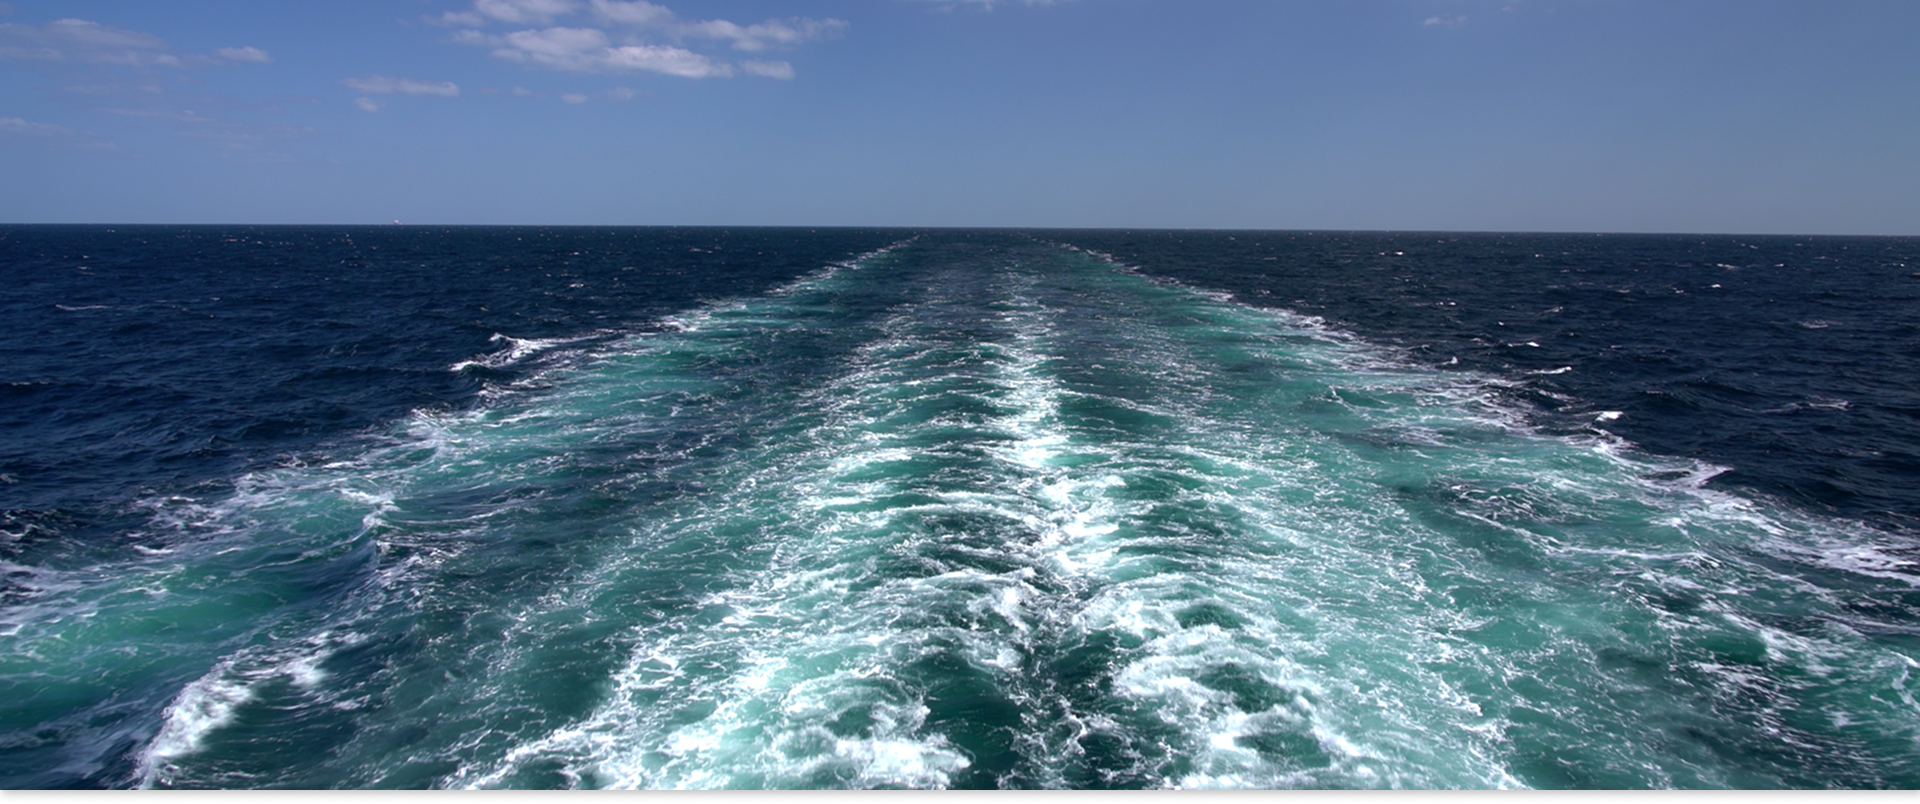
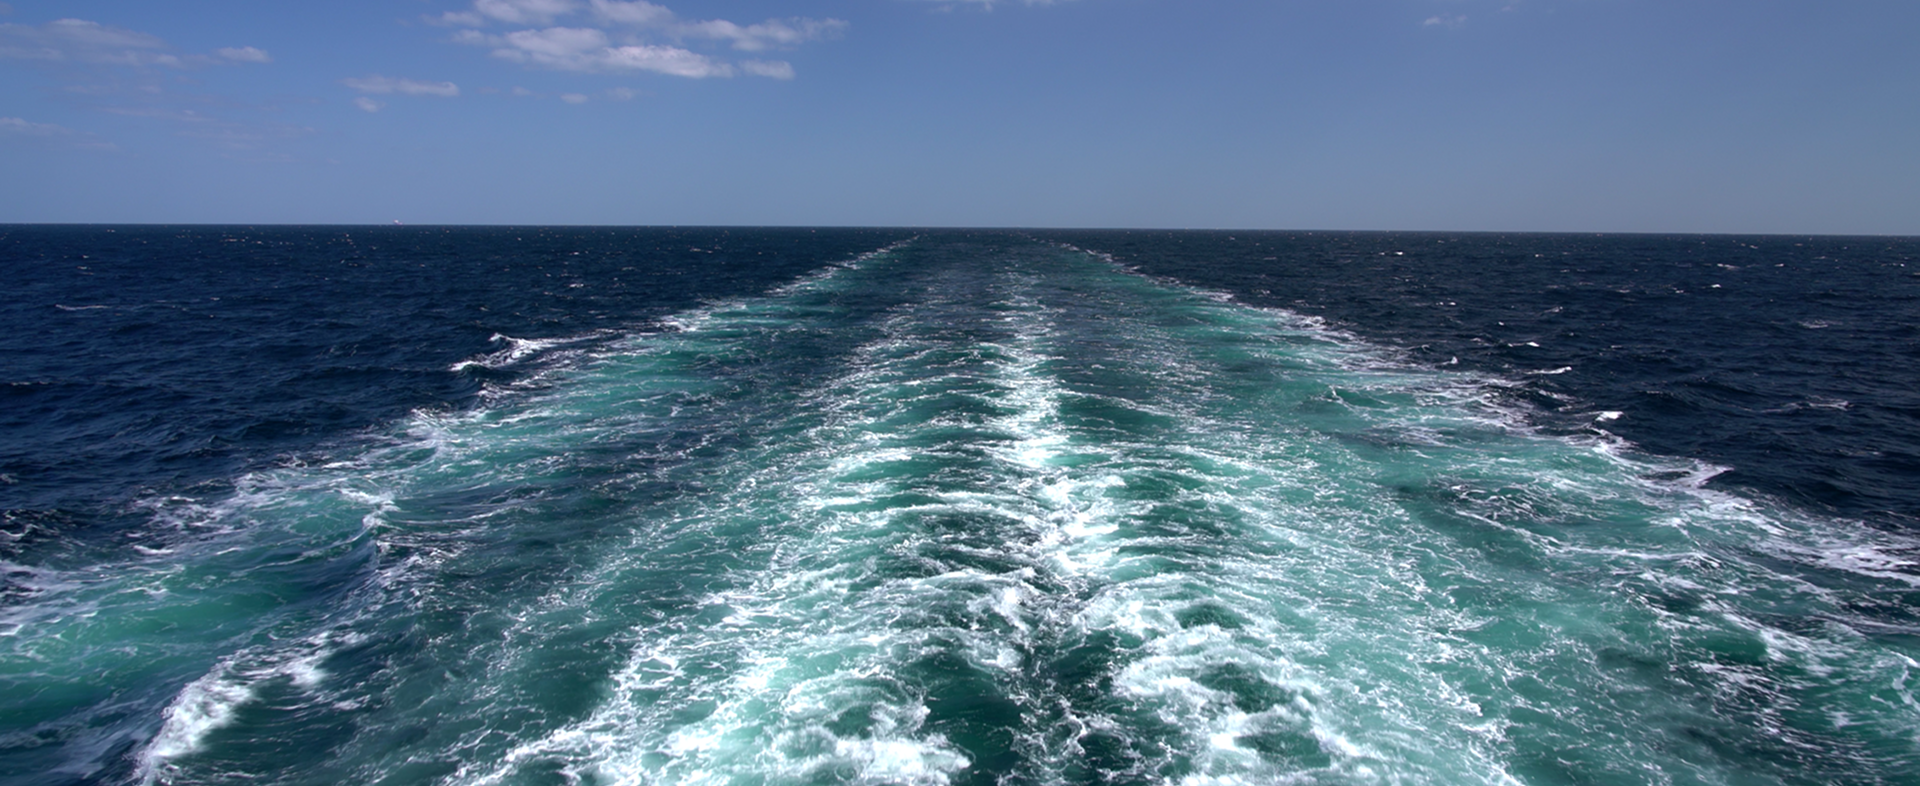
Client changes done

diff --git a/sections/home/Otherservices.jsx b/sections/home/Otherservices.jsx
@@ -3,7 +3,7 @@ import Bulletpoints from '../../components/Bulletpoints'
 
 export default function Otherservices() {
   return (
-    <div className='items-center flex bg-[#1E7179] min-h-[100vh] bg-[url(/servicesbg.jpeg)] bg-no-repeat bg-cover ' id='services'>
+    <div className='items-center flex bg-[#1E7179] min-h-[100vh] bg-[url(/servicesbg.jpeg)] bg-center py-10 lg:py-0 bg-no-repeat bg-cover ' id='services'>
         <div className='max-w-[1400px] mx-auto w-full px-3 '>
             <div className='flex flex-col lg:flex-row gap-10 lg:gap-0'>
                 <div className='w-full lg:w-1/2 text-white flex flex-col gap-6'>
@@ -14,10 +14,8 @@ export default function Otherservices() {
                     <Bulletpoints title='De Bunkering & Fuel Disposal Services' description='handling fuel offloading and disposal as per regulations' color='white'/>
                     <Bulletpoints title='Bunker Trader Representation' description='Acting as a local partner for overseas traders without regional offices.' color='white'/>
                 </div>
-                <div className='w-full lg:w-1/2 flex items-start flex-col md:flex-row lg:justify-end gap-5 relative'>
-                 <img src='/otherservices1.jpg' alt='services' className='rounded-lg w-full lg:w-auto h-auto md:h-full'/>
-                 <img src='/otherservices2.jpg' alt='services' className='rounded-lg w-full lg:w-auto h-auto md:h-full'/>
-
+                <div className='w-full lg:w-1/2 flex items-start flex-col md:flex-row lg:justify-end py-2 gap-5 relative'>
+                 <img src='/otherservices.png' alt='services' className='rounded-lg w-full lg:w-auto h-auto md:h-full'/>
                 </div>
             </div>
         </div>

diff --git a/components/Footer.jsx b/components/Footer.jsx
@@ -14,13 +14,13 @@ export default function Footer() {
         </div>
         </div>
       </div>
-      <div className='bg-[#05363B]'>
+      <div className='bg-[#1E7179]'>
         <div className='max-w-[1400px] mx-auto w-full h-full px-3 py-20 flex flex-col gap-10 lg:gap-0 lg:flex-row xl:justify-between sm:justify-around'>
           <div>
             <img src='/whitelogo.png' alt='white-logo' />
             <p className='text-white w-full lg:max-w-[300px] mt-7 text-xs'>Aqualis Marine leverages an agile and strategic approach to deliver transparent, customized maritime solutions, enhancing efficiency and value for our clients</p>
           </div>
-          <div className='flex flex-col lg:flex-row gap-10 lg:gap-32'>
+          <div className='flex flex-col lg:flex-row gap-10 lg:gap-52'>
             <div className=''>
               <p className='font-bold text-white text-sm'>PAGES</p>
               <div className='lg:mt-10 mt-2 text-xs text-white flex flex-col gap-2'>
@@ -51,7 +51,7 @@ export default function Footer() {
           </div>
         </div>
       </div>
-      <div className='bg-[#05363B] relative'>
+      <div className='bg-[#1E7179] relative'>
         <div className='max-w-[1400px] mx-auto w-full h-full px-3 py-10 text-xs text-white'>
           <p >CopyRights : Aqualis Marine@2025</p>
           <Link href='https://api.whatsapp.com/send/?phone=6597399507&text=Hello+%2C+i+am+interested&type=phone_number&app_absent=0' className='fixed bottom-6 right-6'>

diff --git a/sections/home/Blogsectionhome.jsx b/sections/home/Blogsectionhome.jsx
@@ -7,14 +7,14 @@ import Link from 'next/link';
 export default async function Blogsectionhome() {
   const rows = await getCachedBlogs();
   return (
-    <div className='py-20' id='blog'>
+    <div className='py-16' id='blog'>
     <div className='max-w-[1400px] mx-auto w-full px-3'>
       <p className='text-4xl font-bold text-[#05363B]'>Blogs</p>
-      <div className='flex mt-10 flex-col lg:flex-row gap-10'>
+      <div className='flex mt-10 flex-col lg:flex-row gap-7'>
             <div className='lg:w-1/2 w-full h-full'>
             <Link href={`/blogs/${rows[0].id}`} passHref><Homemainblogcard image={rows[0].image_url} title={rows[0].title} description={rows[0].shortdesc}/></Link>
             </div>
-            <div className='lg:w-1/2 w-full gap-10 flex flex-col justify-between'>
+            <div className='lg:w-1/2 w-full gap-10 lg:gap-0 flex lg:flex-col flex-col md:flex-row justify-between'>
                 <Link href={`/blogs/${rows[2].id}`} passHref><Homeblogcard title={rows[2].title} imge={rows[2].image_url} description={rows[2].shortdesc}/></Link>
                 
                 <Link href={`/blogs/${rows[1].id}`} passHref><Homeblogcard title={rows[1].title} imge={rows[1].image_url} description={rows[1].shortdesc}/></Link>

diff --git a/sections/home/Contact.jsx b/sections/home/Contact.jsx
@@ -6,14 +6,14 @@ export default function Contact() {
         console.log(hi)
     }
   return (
-    <div className='py-20 bg-[#F5F5F5] bg-[url(/contactcircle.png)] bg-no-repeat bg-right-bottom' id='contact'>
+    <div className='py-10 bg-[#F5F5F5] bg-[url(/contactcircle.png)] bg-no-repeat bg-right-bottom' id='contact'>
         <div className='max-w-[1400px] mx-auto w-full px-3'>
             <p className='text-3xl text-[#05363B] font-semibold'>Contact Us.</p>
             <div className='mt-10 lg:flex-row flex-col flex justify-between gap-10'>
                 <div className='lg:w-1/2 w-full h-auto'>
                     <img src='/contact.jpg' alt='contact' className='w-full h-full lg:h-[27rem]' />
                 </div>
-                <div className=''>
+                <div className='lg:w-1/2 lg:flex justify-end block w-full h-auto'>
                     <form className='flex flex-col gap-5 items-start mt-10 lg:mt-0'>
                         <div className='flex lg:flex-row flex-col gap-5 w-full'>
                             <Inputfield field='name' placeholder='Your Name' type='text'/>

diff --git a/components/Homemainblogcard.jsx b/components/Homemainblogcard.jsx
@@ -2,7 +2,7 @@ import React from 'react'
 
 export default function Homemainblogcard({title, description, image}) {
   return (
-    <div className={`bg-cover bg-center min-h-[500px] h-full rounded-lg px-5 flex flex-col justify-end py-10 gap-3`}  style={{ backgroundImage: `url(${image})` }}>
+    <div className={`bg-cover bg-center min-h-[500px] h-full rounded-lg px-8 flex flex-col justify-end py-10 gap-3`}  style={{ backgroundImage: `url(${image})` }}>
         <p className='text-white text-lg font-medium'>{title}</p>
         <p className='text-white text-sm lg:w-2/3 w-full'>{description}</p>
     </div>

diff --git a/sections/home/Bunkering.jsx b/sections/home/Bunkering.jsx
@@ -2,8 +2,8 @@ import React from 'react'
 
 export default function Bunkering() {
   return (
-    <div className='relative ' id='bunkering'>
-    <div className='py-20 mt-10 bg-[#1E7179] bg-[url(/Bunkeringbg.png)] bg-no-repeat bg-cover '>
+    <div className='relative mt-10' id='bunkering'>
+    <div className='py-10 bg-[#1E7179] bg-[url(/Bunkeringbg.png)] bg-no-repeat bg-cover '>
         <div className='max-w-[1400px] mx-auto w-full px-3 '>
             <div className='flex flex-col lg:flex-row lg:gap-40 justify-between'>
                 <div className='text-white w-full lg:w-[60%]'>

diff --git a/sections/home/About.jsx b/sections/home/About.jsx
@@ -2,7 +2,7 @@ import React from 'react'
 
 export default function About() {
   return (
-    <div className='bg-[url(/Aboutbackground.png)] min-h-[100vh] flex items-center bg-no-repeat bg-cover pt-10 lg:pt-0' id='about'>
+    <div className='bg-[url(/Aboutbackground.png)] bg-center min-h-[100vh] flex items-center bg-no-repeat bg-cover pt-10 lg:pt-0' id='about'>
       <div className='max-w-[1400px] mx-auto w-full flex flex-col items-start gap-3 px-3'>
       <div className="block lg:flex flex-row w-full gap-40">
         <div className="relative w-full lg:w-[60%]">

diff --git a/sections/home/Bunkerpoints.jsx b/sections/home/Bunkerpoints.jsx
@@ -5,7 +5,7 @@ import Enquerypopup from '../../components/Enquerypopup'
 
 export default function Bunkerpoints() {
   return (
-    <div className='py-10  bg-[url(/bunkingprocess.png)] relative'>
+    <div className='py-10  bg-[url(/bunkingprocess.png)] bg-bottom relative'>
         <div className='max-w-[1400px] mx-auto w-full flex flex-col gap-10 justify-between lg:flex-row px-3'>
             <div className='lg:w-1/2 w-full flex items-center '>
                 <img src='/bunkeringpointsbg.png' className='w-full lg:w-auto object-cover' alt='cargo-ship-sailing'/>

diff --git a/components/Homeblogcard.jsx b/components/Homeblogcard.jsx
@@ -3,8 +3,8 @@ import React from 'react'
 export default function Homeblogcard({title, description, imge}) {
   return (
     <div className='flex lg:flex-row flex-col bg-[#F1F1F1] rounded-lg gap-4'>
-        <img src={imge} alt={title} className='lg:w-60 w-full rounded-lg'/>
-        <div className='pt-8 px-5 pb-10'>
+        <img src={imge} alt={title} className='lg:w-64 h-[235px] w-full rounded-lg'/>
+        <div className='pt-8 px-5 '>
          <p className='text-lg font-medium'>{title}</p>
          <p className='py-5 text-sm'>{description}
         </p>

diff --git a/sections/home/Companyslider.jsx b/sections/home/Companyslider.jsx
@@ -3,7 +3,7 @@ import ImageSlider from '../../components/Slider'
 
 export default function Companyslider() {
   return (
-    <div className='bg-[#F5F5F5] py-10'>
+    <div className='bg-[#F5F5F5] py-10 lg:py-5'>
       <div className='max-w-[1400px] mx-auto w-full  px-3'>
         <p className='text-4xl font-bold text-[#05363B]'>We work with…..</p>
         <ImageSlider />
